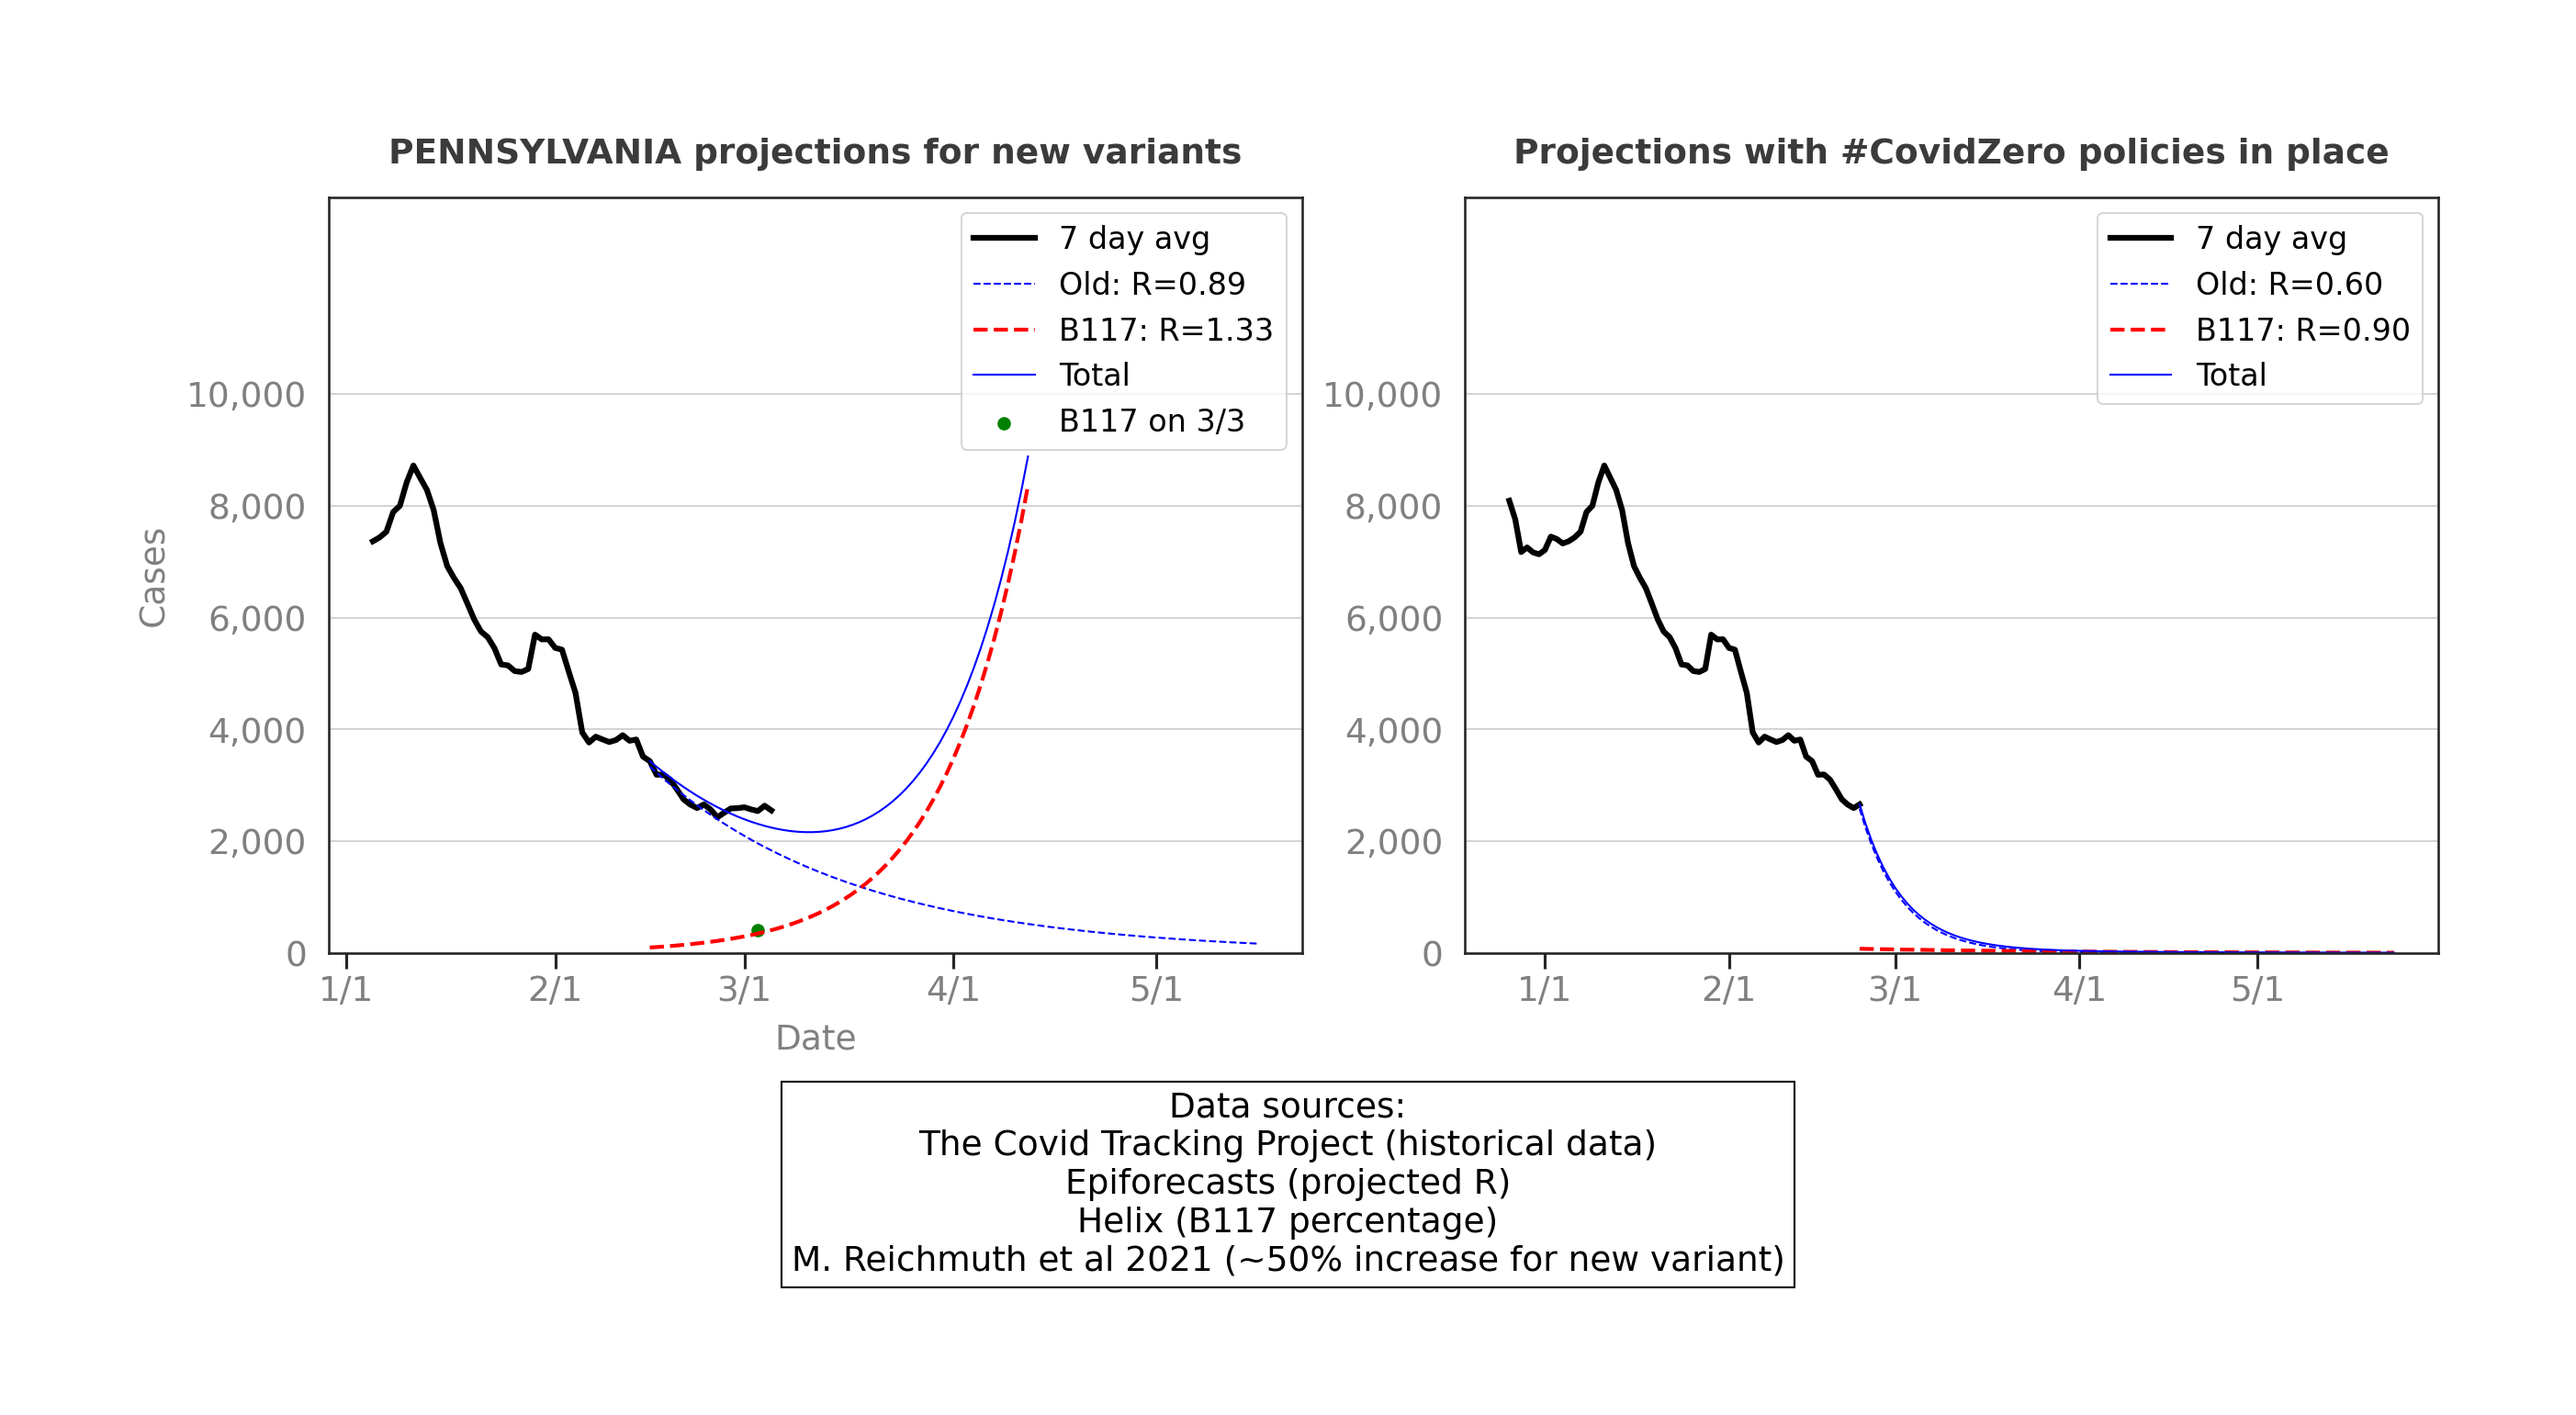
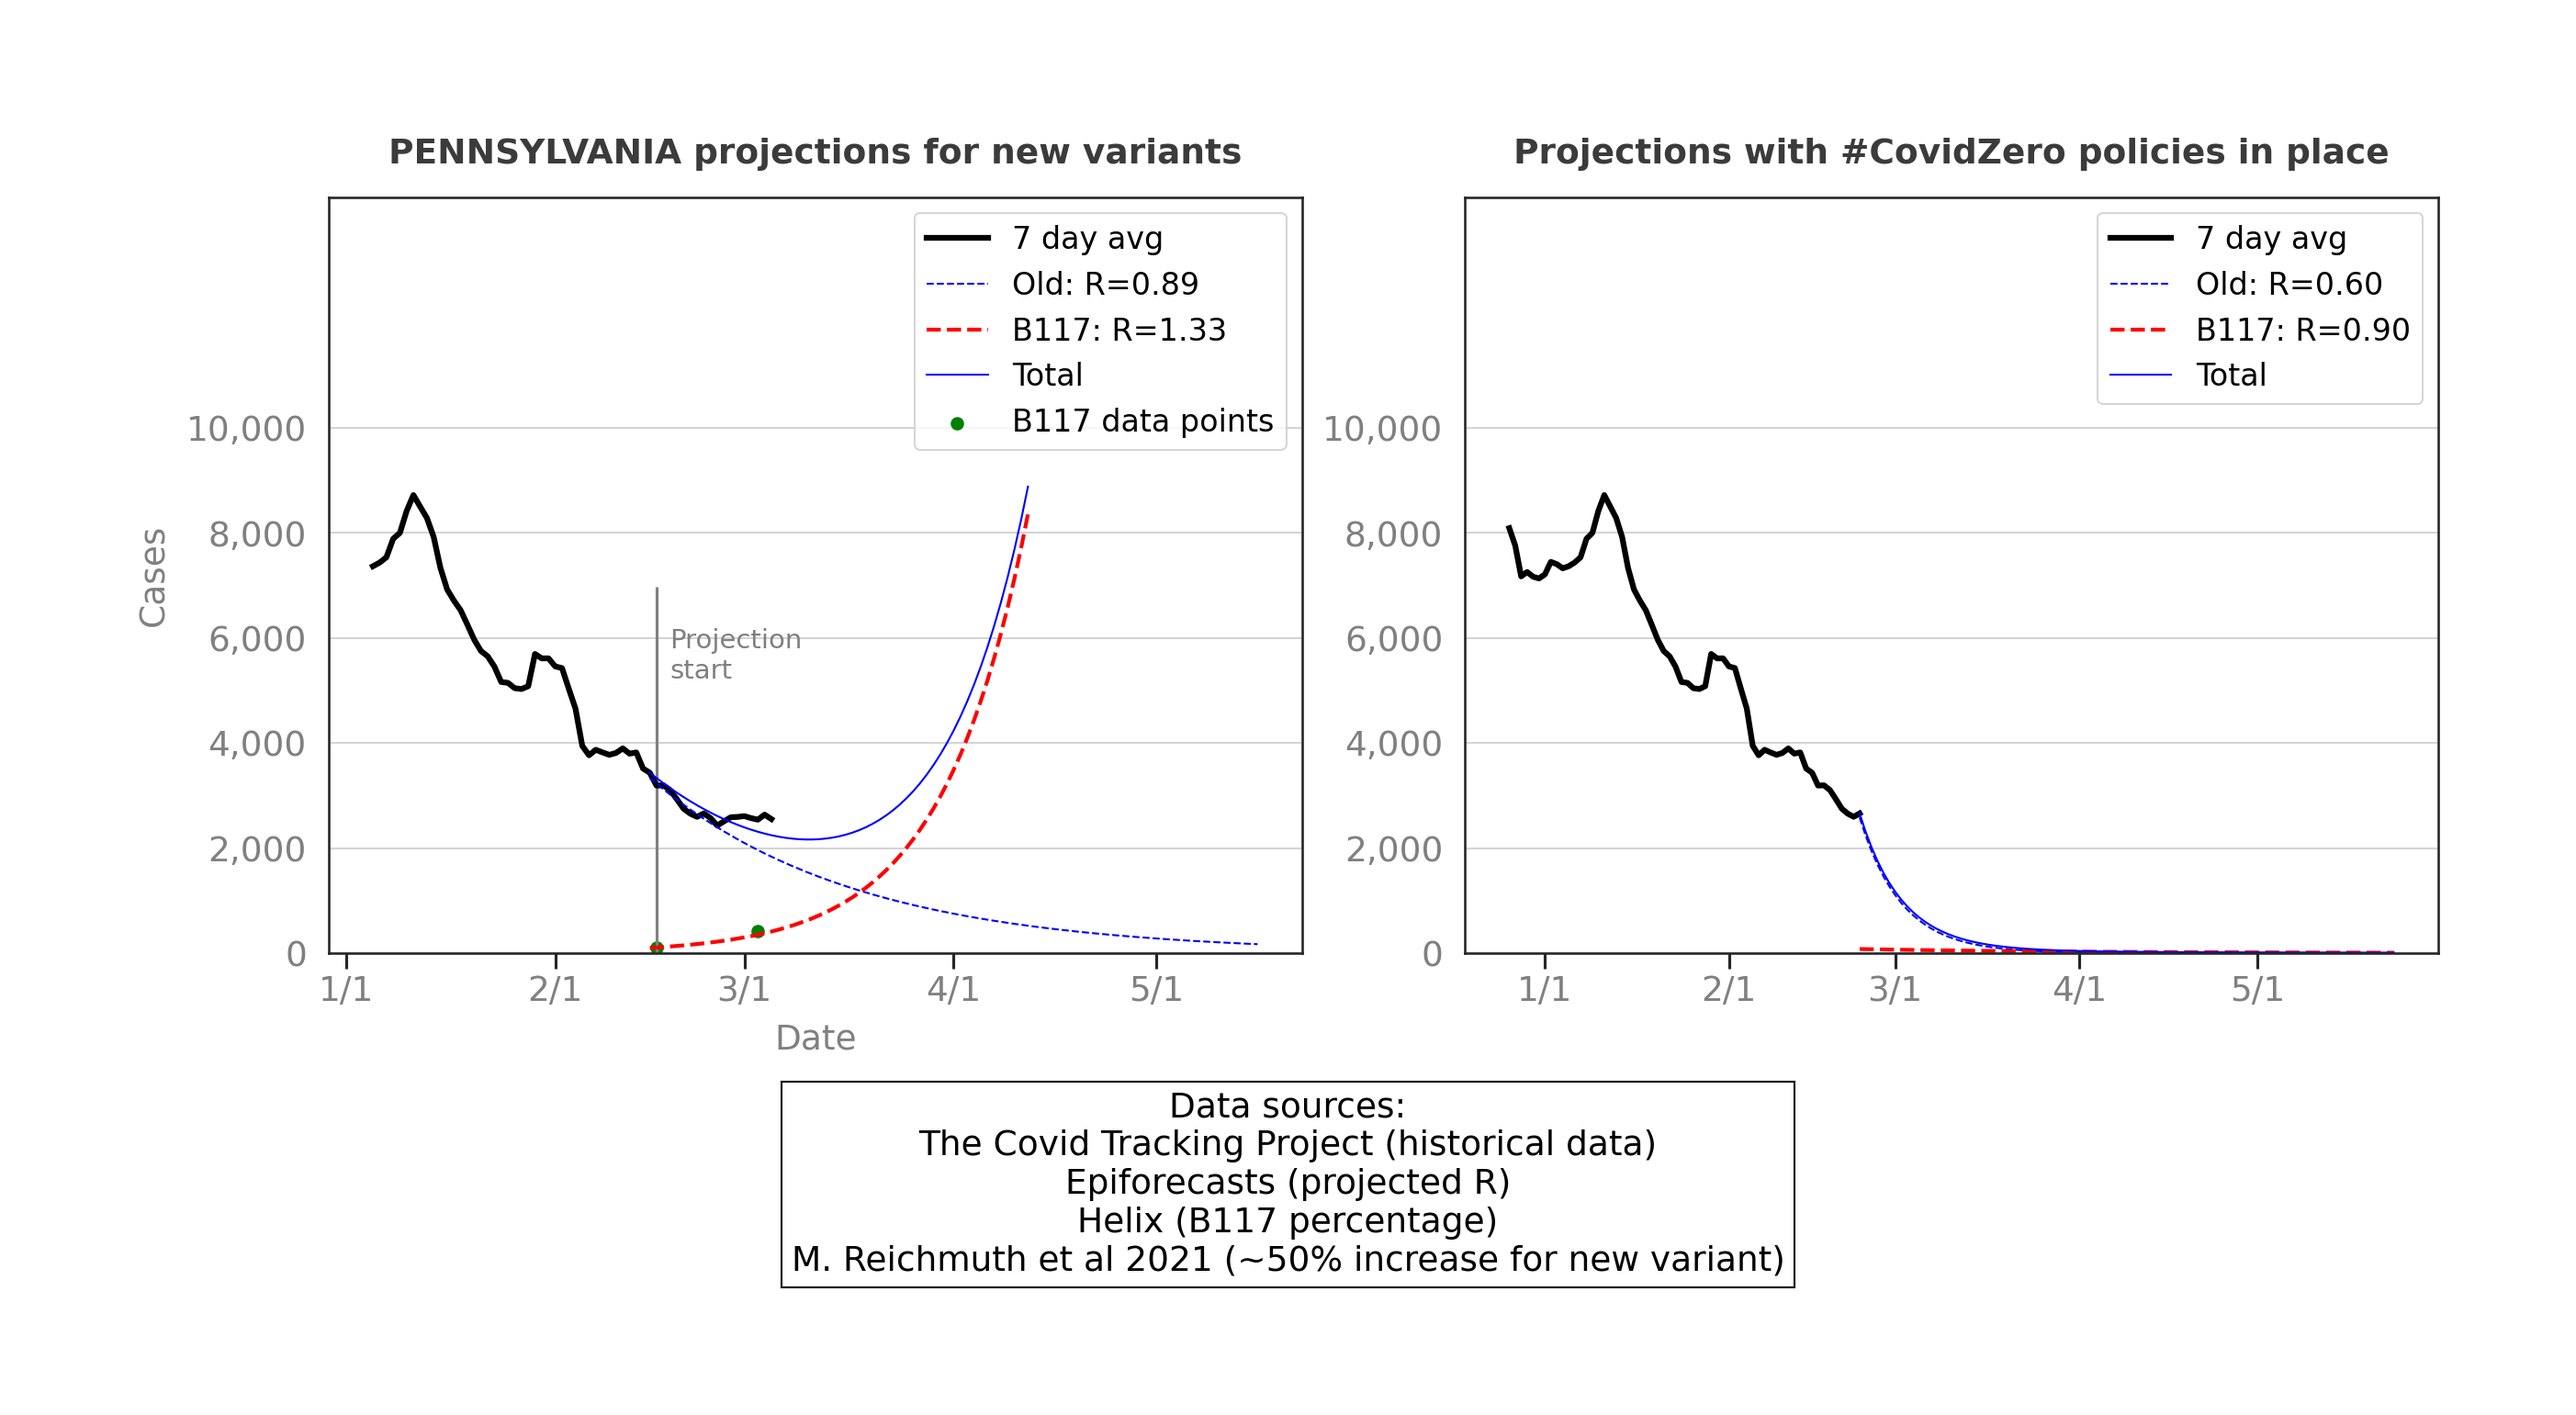
Added projection start line and dot

diff --git a/new_variant_estimate.py b/new_variant_estimate.py
@@ -249,7 +249,6 @@ def makeSubChart(df_historical, df_r_estimates, state, R_covid, R_variant,
     projection_variant = projectCases(R_variant, init_variant_cases, n_days_projection  + 1, generation=generation, pad=len(data) - projection_overlap - 1)
     projection_total = projection_covid + projection_variant
 
-
     # pin for updated variant percent
     if pct_variant_update > 0:
       variant_update = np.full(len(dates), np.nan) 
@@ -258,9 +257,11 @@ def makeSubChart(df_historical, df_r_estimates, state, R_covid, R_variant,
       variant_days_offset = int(variant_date_offset.total_seconds()/(60*60*24))
 
 
-
+      # updated projection point
       variant_update[variant_days_offset] = data['average'].iat[-variant_days_offset]*pct_variant_update
 
+      # initial projection point
+      variant_update[n_days_data - projection_overlap] = projection_variant[n_days_data - projection_overlap]
 
 
 
@@ -297,13 +298,18 @@ def makeSubChart(df_historical, df_r_estimates, state, R_covid, R_variant,
 
     # # UPDATED B117 PCT PLOT #
     if pct_variant_update > 0:
-      axis.scatter(dates, variant_update, color='green', label='B117 on 3/3')
+      axis.scatter(dates, variant_update, color='green', label='B117 data points')
 
+    # VERTICAL LINE FOR PROJECTION START #
+
+    if current:
+      axis.vlines(dates[n_days_data - projection_overlap], 0, 0.8*y_cutoff, color='grey')
+      axis.text(dates[n_days_data - projection_overlap + 2], 0.6*y_cutoff, "Projection\nstart", fontsize=14, color='grey')
 
     # SUBPLOT TITLE#
     axis.set_title(header_text,fontsize=18, y=1.03, alpha=0.9, fontweight='bold')
 
-    axis_cutoff = 1.55*y_cutoff
+    axis_cutoff = 1.65*y_cutoff
     
     axis_cutoff = int(1500*axis_cutoff)/1500 -1
     setUpAxis(axis, axis_cutoff, current)
